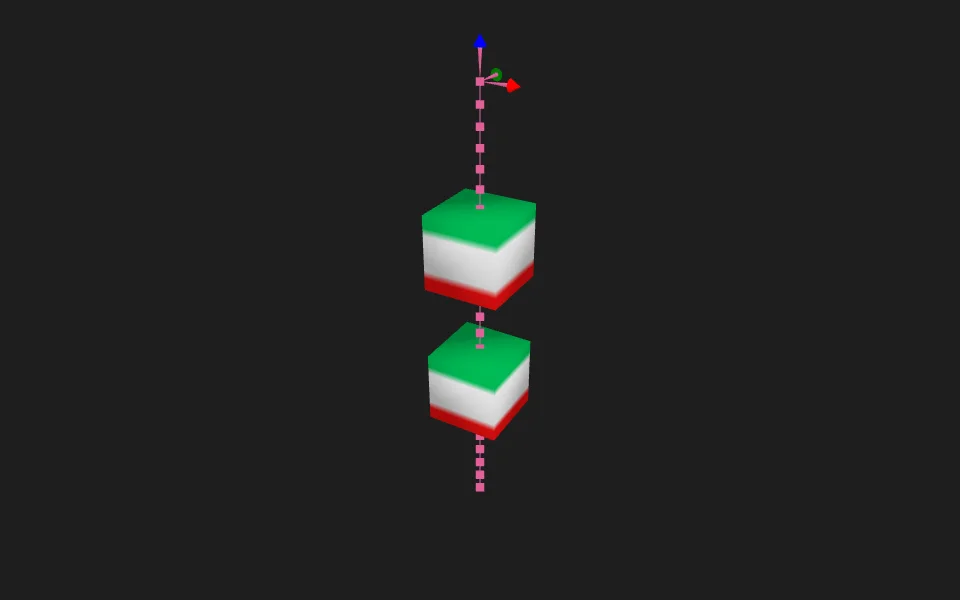
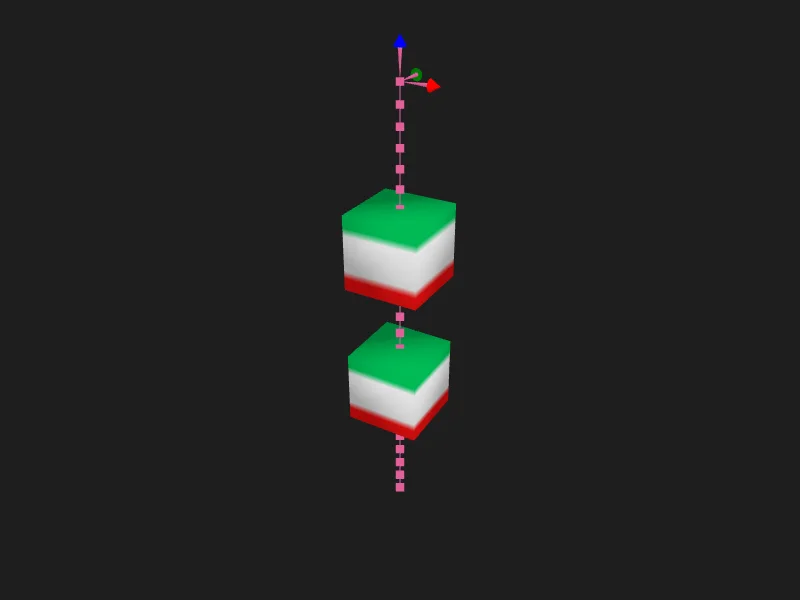
Draw the gallery's pictures 4:3, as magpylib's docs draw theirs
Every example picture in magpylib's docs is 4:3, so these sit among them; a
tall scene comes out a quarter bigger than at 16:10, and a wide one no smaller.

Changed region(s): [[0.4062, 0.33, 0.5938, 0.75], [0.5, 0.12, 0.5625, 0.15], [0.4688, 0.3, 0.5, 0.33]]

diff --git a/vscode-extension/media/gallery.css b/vscode-extension/media/gallery.css
@@ -46,7 +46,7 @@ h1 {
   outline-offset: 2px;
 }
 .picture {
-  aspect-ratio: 16 / 10;
+  aspect-ratio: 4 / 3;
   margin-bottom: 6px;
   background: var(--vscode-editor-background);
 }

diff --git a/vscode-extension/harness/gallery.py b/vscode-extension/harness/gallery.py
@@ -13,7 +13,7 @@ import json
 import pathlib
 import sys
 
-#: The picture's height in CSS pixels; `gallery.mjs` takes it 16:10.
+#: The picture's height in CSS pixels; `gallery.mjs` takes it 4:3.
 HEIGHT = 300
 
 #: What a picture leaves out: the view's overlays, and the page's margin and

diff --git a/docs/decisions.md b/docs/decisions.md
@@ -2087,7 +2087,8 @@ design: two concentric rings, its field lines across the bore, a variant or two.
   it loads, saved as a page, taken in headless Chrome in the light theme and the
   dark, its flow held at one time, so the same scene makes the same file. They
   are plain files in `media/gallery/`, about 25 KB each, for the docs to use
-  too.
+  too, and 4:3, as every example picture in magpylib's docs is: a tall scene is
+  a quarter bigger than at 16:10, and a wide one no smaller.
 - **The notebook's two designs are the first two examples**, written in
   `designs.py` as the scene functions they are, a test holding them to the
   notebook's. The rings load with their field lines on, as the notebook shows
